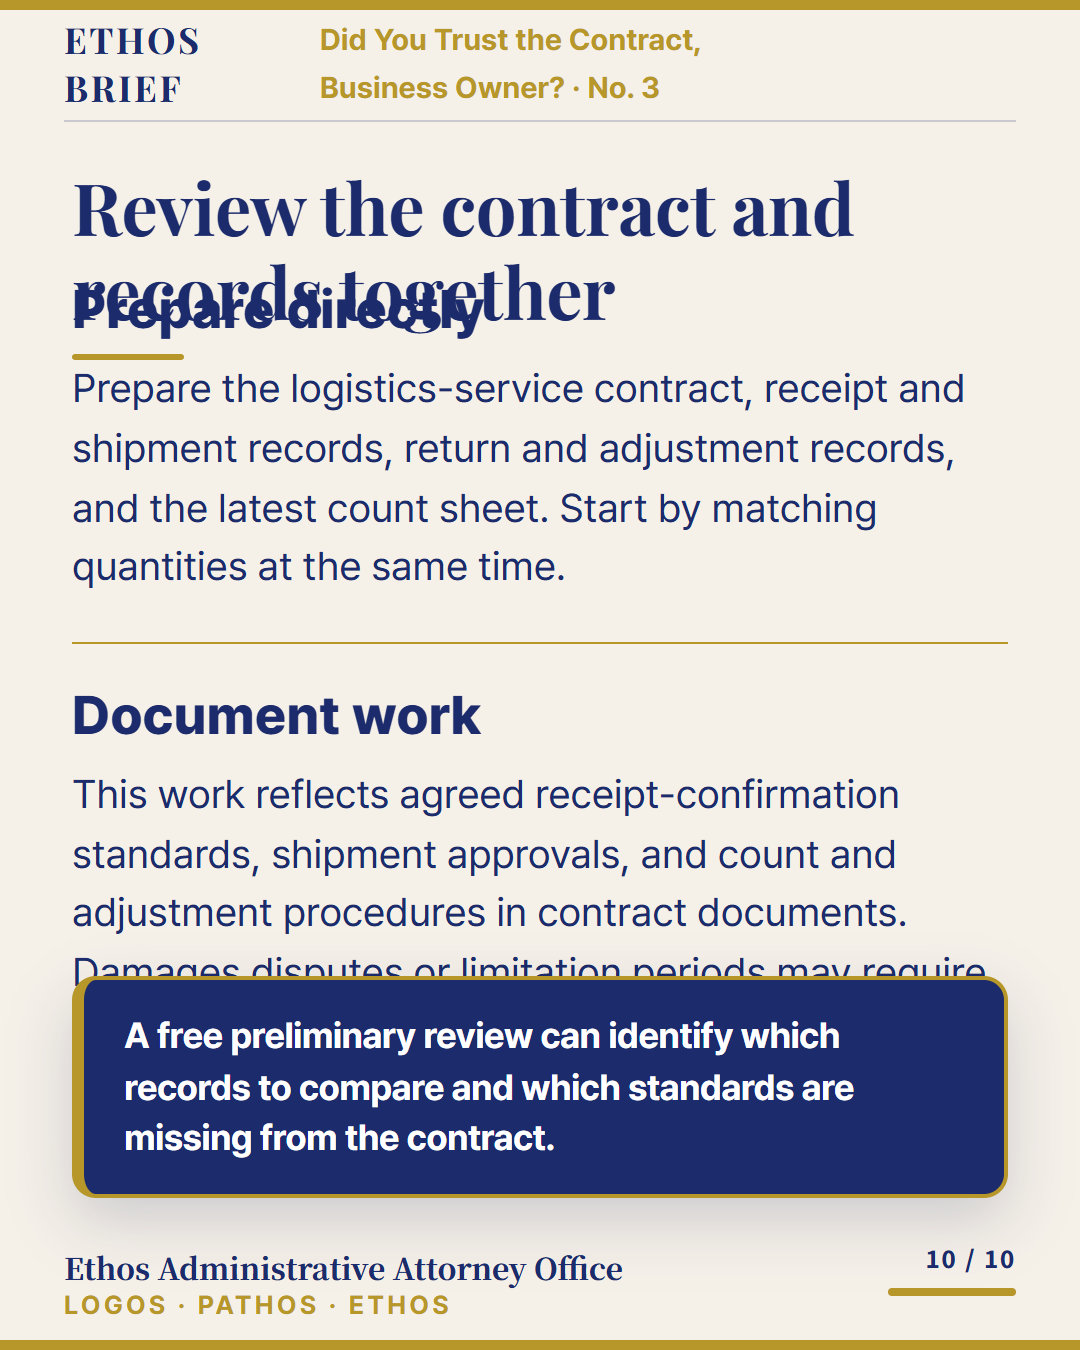
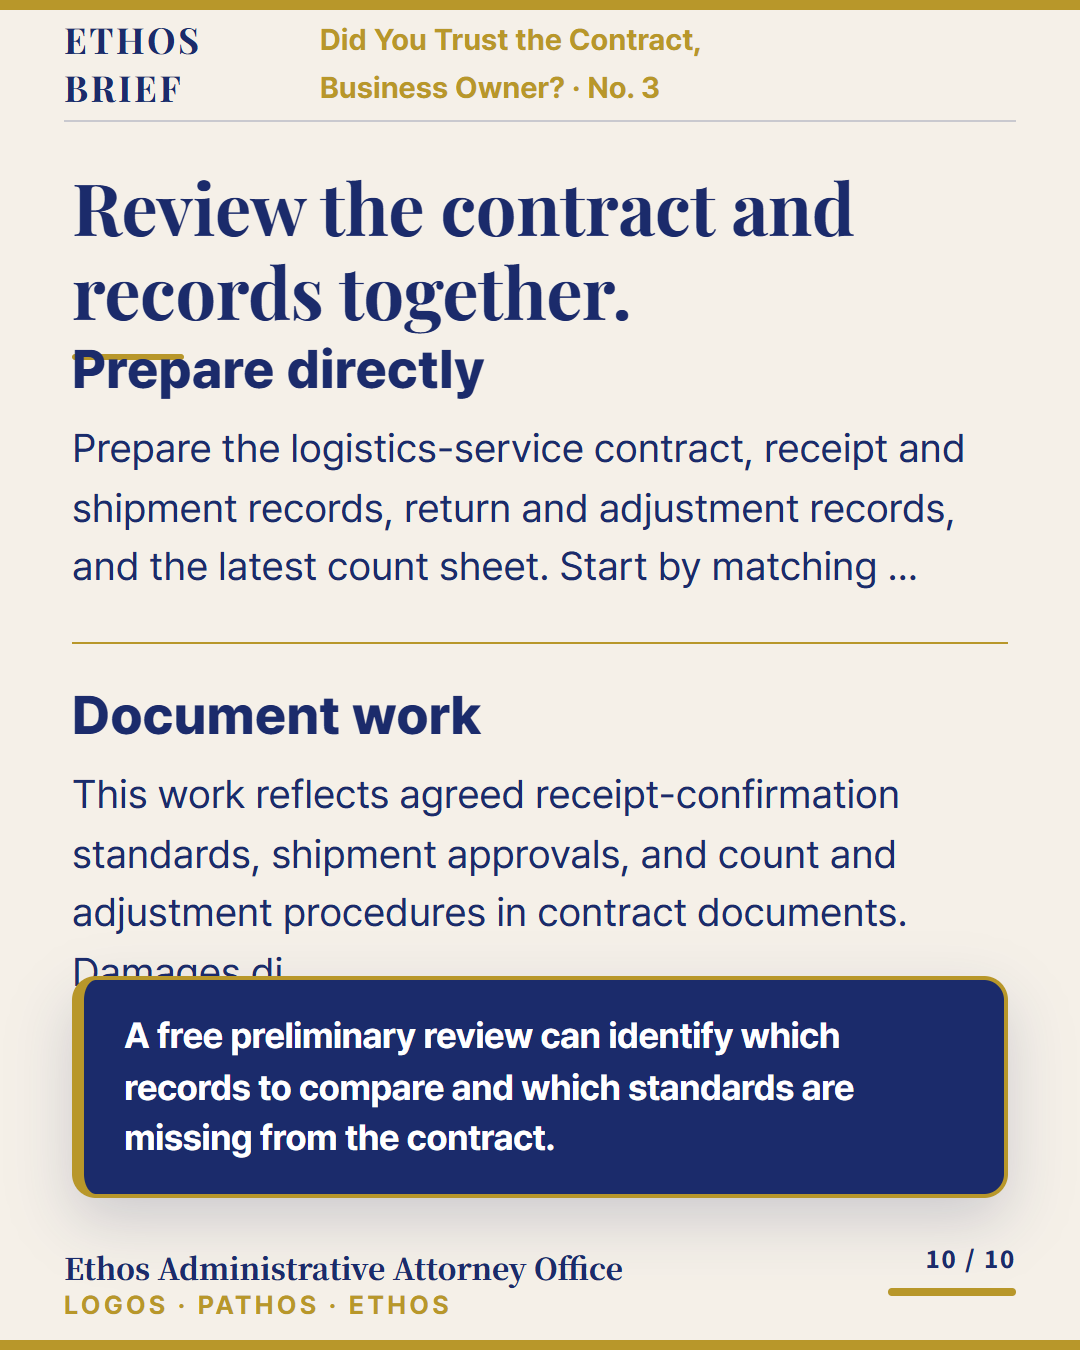
fix(cards): shorten English copy for mobile fit

diff --git a/content/CONTRACT-WAREHOUSE-INVENTORY-03-KO-CARDS/en/card_09.html b/content/CONTRACT-WAREHOUSE-INVENTORY-03-KO-CARDS/en/card_09.html
@@ -13,7 +13,7 @@
   <div class="hdr"><span class="wm" data-frame="wordmark">ETHOS BRIEF</span><span class="sec" data-frame="section">Did You Trust the Contract, Business Owner? · No. 3</span></div>
   <div class="hl" data-frame="line"></div>
   <div class="body">
-    <div class="z-title" data-zone="title"><h2 class="h2" data-role="headline">Separate the storage and transport stages</h2></div>
+    <div class="z-title" data-zone="title"><h2 class="h2" data-role="headline">Separate storage from transport.</h2></div>
 <div class="z-main" data-zone="main"><div class="transport-case" data-focal="transport"><div class="transport-symbol"><svg
   xmlns="http://www.w3.org/2000/svg"
   width="24"
@@ -31,7 +31,7 @@
   <circle cx="17" cy="18" r="2" />
   <circle cx="7" cy="18" r="2" />
 </svg>
-</div><div class="judgment-source" data-role="note">Supreme Court, July 10, 2019, 2019Da213009</div><div class="judgment-body">The Court treated multimodal transport as the core element of a comprehensive logistics operation contract that included storage, logistics-information use and port handling.</div><div class="judgment-boundary">This ruling concerned the character of a specific contract and cargo loss. It did not classify every fulfillment contract as a transport contract.</div></div></div>
+</div><div class="judgment-source" data-role="note">Supreme Court, July 10, 2019, 2019Da213009</div><div class="judgment-body">A specific logistics contract treated multimodal transport as central.</div><div class="judgment-boundary">It did not classify every fulfillment contract as transport.</div></div></div>
 <div class="z-take" data-zone="take"><div class="close" data-role="takeaway">Separate the period before and after courier handoff, and review handoff proof and transport records.</div></div>
   </div>
   <div class="ftr"><div class="org" data-frame="org">Ethos Administrative Attorney Office</div><div class="tagl" data-frame="tagline">LOGOS · PATHOS · ETHOS</div><div class="pg" data-frame="page" aria-hidden="true" data-progress="09 / 10"></div></div>

diff --git a/content/CONTRACT-WAREHOUSE-INVENTORY-03-KO-CARDS/en/card_10.html b/content/CONTRACT-WAREHOUSE-INVENTORY-03-KO-CARDS/en/card_10.html
@@ -13,8 +13,8 @@
   <div class="hdr"><span class="wm" data-frame="wordmark">ETHOS BRIEF</span><span class="sec" data-frame="section">Did You Trust the Contract, Business Owner? · No. 3</span></div>
   <div class="hl" data-frame="line"></div>
   <div class="body">
-    <div class="z-title" data-zone="title"><h2 class="h2" data-role="headline">Review the contract and records together</h2></div>
-<div class="z-main" data-zone="main"><div class="handoff" data-focal><section><h3>Prepare directly</h3><p>Prepare the logistics-service contract, receipt and shipment records, return and adjustment records, and the latest count sheet. Start by matching quantities at the same time.</p></section><section><h3>Document work</h3><p>This work reflects agreed receipt-confirmation standards, shipment approvals, and count and adjustment procedures in contract documents. Damages disputes or limitation periods may require attorney review.</p></section></div></div>
+    <div class="z-title" data-zone="title"><h2 class="h2" data-role="headline">Review the contract and records together.</h2></div>
+<div class="z-main" data-zone="main"><div class="handoff" data-focal><section><h3>Prepare directly</h3><p>Prepare the logistics-service contract, receipt and shipment records, return and adjustment records, and the latest count sheet. Start by matching …</p></section><section><h3>Document work</h3><p>This work reflects agreed receipt-confirmation standards, shipment approvals, and count and adjustment procedures in contract documents. Damages di…</p></section></div></div>
 <div class="z-take" data-zone="take"><div class="take" data-role="takeaway">A free preliminary review can identify which records to compare and which standards are missing from the contract.</div></div>
   </div>
   <div class="ftr"><div class="org" data-frame="org">Ethos Administrative Attorney Office</div><div class="tagl" data-frame="tagline">LOGOS · PATHOS · ETHOS</div><div class="pg" data-frame="page" aria-hidden="true" data-progress="10 / 10"></div></div>

diff --git a/content/CONTRACT-WAREHOUSE-INVENTORY-03-KO-CARDS/en/card_08.html b/content/CONTRACT-WAREHOUSE-INVENTORY-03-KO-CARDS/en/card_08.html
@@ -13,7 +13,7 @@
   <div class="hdr"><span class="wm" data-frame="wordmark">ETHOS BRIEF</span><span class="sec" data-frame="section">Did You Trust the Contract, Business Owner? · No. 3</span></div>
   <div class="hl" data-frame="line"></div>
   <div class="body">
-    <div class="z-title" data-zone="title"><h2 class="h2" data-role="headline">Unauthorized shipment can also count as “loss”</h2></div>
+    <div class="z-title" data-zone="title"><h2 class="h2" data-role="headline">Unauthorized shipment can count as “loss”.</h2></div>
 <div class="z-main" data-zone="main"><div class="judgment judgment-8" data-focal="judgment"><div class="case-symbol"><svg
   xmlns="http://www.w3.org/2000/svg"
   width="24"
@@ -31,7 +31,7 @@
   <path d="m8 8 6-6" />
   <path d="m8.5 7.5 8 8" />
 </svg>
-</div><div class="judgment-source" data-role="note">Supreme Court, Dec. 22, 1981, 80Da1609</div><div class="judgment-body">The case concerned silk held as collateral. The Court held that “loss” under Article 166 of the Commercial Act includes unauthorized shipment that makes it impossible to return the goods to the person who entrusted them.</div><div class="judgment-boundary">Modern fulfillment contracts have a different structure. The ruling can guide review of shipment authority and approval records.</div></div></div>
+</div><div class="judgment-source" data-role="note">Supreme Court, Dec. 22, 1981, 80Da1609</div><div class="judgment-body">Article 166 includes unauthorized shipment that prevents return.</div><div class="judgment-boundary">Review shipment authority and approvals.</div></div></div>
 <div class="z-take" data-zone="take"><div class="close" data-role="takeaway">Check who requested the shipment and what approval preceded it.</div></div>
   </div>
   <div class="ftr"><div class="org" data-frame="org">Ethos Administrative Attorney Office</div><div class="tagl" data-frame="tagline">LOGOS · PATHOS · ETHOS</div><div class="pg" data-frame="page" aria-hidden="true" data-progress="08 / 10"></div></div>

diff --git a/content/CONTRACT-WAREHOUSE-INVENTORY-03-KO-CARDS/en/card_05.html b/content/CONTRACT-WAREHOUSE-INVENTORY-03-KO-CARDS/en/card_05.html
@@ -14,7 +14,7 @@
   <div class="hl" data-frame="line"></div>
   <div class="body">
     <div class="z-title" data-zone="title"><h2 class="h2" data-role="headline">“Mutual discussion” alone leaves no record.</h2></div>
-<div class="z-main" data-zone="main"><div class="contract-edit" data-focal><section><h3>Before</h3><p>“The custodian shall store the entrusted goods with due care and handle any inventory difference through discussion between the parties.”</p></section><section><h3>Revision direction</h3><p>Record expected, inspected and confirmed receipt quantities separately, and ship through the agreed approval route. Keep the reason, time and person responsible for cancellations, returns, defective-goods movement and inventory adjustments.</p></section></div></div>
+<div class="z-main" data-zone="main"><div class="contract-edit" data-focal><section><h3>Before</h3><p>“The custodian shall store the entrusted goods with due care and handle any inventory difference through discussion between the parties.”</p></section><section><h3>Revision direction</h3><p>Record expected, inspected and confirmed receipt quantities separately, and ship through the agreed approval route. Keep the reason, time and perso…</p></section></div></div>
 <div class="z-take" data-zone="take"><div class="close" data-role="takeaway">Write the parties’ agreed work process into the contract.</div></div>
   </div>
   <div class="ftr"><div class="org" data-frame="org">Ethos Administrative Attorney Office</div><div class="tagl" data-frame="tagline">LOGOS · PATHOS · ETHOS</div><div class="pg" data-frame="page" aria-hidden="true" data-progress="05 / 10"></div></div>

diff --git a/content/CONTRACT-WAREHOUSE-INVENTORY-03-KO-CARDS/en/card_01.html b/content/CONTRACT-WAREHOUSE-INVENTORY-03-KO-CARDS/en/card_01.html
@@ -13,7 +13,7 @@
   <div class="hdr"><span class="wm" data-frame="wordmark">ETHOS BRIEF</span><span class="sec" data-frame="section">Did You Trust the Contract, Business Owner? · No. 3</span></div>
   <div class="hl" data-frame="line"></div>
   <div class="body">
-    <div class="z-title" data-zone="title"><h2 class="h2" data-role="headline">Who is responsible when goods stored in a warehouse do not match?</h2></div>
+    <div class="z-title" data-zone="title"><h2 class="h2" data-role="headline">Warehouse stock differs.<br>Who is responsible?</h2></div>
 <div class="z-main" data-zone="main"><div class="warehouse-scene" data-focal><div class="scene-warehouse"><svg
   xmlns="http://www.w3.org/2000/svg"
   width="24"
@@ -45,7 +45,7 @@
   <path d="M16 4h2a2 2 0 0 1 2 2v14a2 2 0 0 1-2 2H6a2 2 0 0 1-2-2V6a2 2 0 0 1 2-2h2" />
   <path d="m9 14 2 2 4-4" />
 </svg>
-</div></div><div class="cover-copy"><p>When quantities differ, separate the records first.</p><p class="promise" data-role="note">A way to find the cause of the discrepancy</p></div></div>
+</div></div><div class="cover-copy"><p>When quantities differ, separate the records first.</p><p class="promise" data-role="note">Find where the gap began</p></div></div>
 <div class="z-take" data-zone="take"><div class="take" data-role="takeaway">A ledger difference does not by itself prove loss or liability.</div></div>
   </div>
   <div class="ftr"><div class="org" data-frame="org">Ethos Administrative Attorney Office</div><div class="tagl" data-frame="tagline">LOGOS · PATHOS · ETHOS</div><div class="pg" data-frame="page" aria-hidden="true" data-progress="01 / 10"></div></div>

diff --git a/content/CONTRACT-WAREHOUSE-INVENTORY-03-KO-CARDS/en/card_02.html b/content/CONTRACT-WAREHOUSE-INVENTORY-03-KO-CARDS/en/card_02.html
@@ -13,7 +13,7 @@
   <div class="hdr"><span class="wm" data-frame="wordmark">ETHOS BRIEF</span><span class="sec" data-frame="section">Did You Trust the Contract, Business Owner? · No. 3</span></div>
   <div class="hl" data-frame="line"></div>
   <div class="body">
-    <div class="z-title" data-zone="title"><h2 class="h2" data-role="headline">What if the three numbers do not match?</h2></div>
+    <div class="z-title" data-zone="title"><h2 class="h2" data-role="headline">What if three counts differ?</h2></div>
 <div class="z-main" data-zone="main"><div class="inventory-bars" data-focal><div class="inventory-row"><div class="inventory-label"><b>Company ledger</b><strong>1,200 units</strong></div><div class="track"><div class="fill" style="width:100.0000%"></div></div><p>Quantity reflecting purchases and sales</p></div><div class="inventory-row"><div class="inventory-label"><b>Warehouse ledger</b><strong>1,150 units</strong></div><div class="track"><div class="fill" style="width:95.8333%"></div></div><p>Quantity managed for warehouse receipts and shipments</p></div><div class="inventory-row"><div class="inventory-label"><b>Physical count</b><strong>1,130 units</strong></div><div class="track"><div class="fill" style="width:94.1667%"></div></div><p>Quantity counted in the warehouse</p></div></div></div>
 <div class="z-take" data-zone="take"><div class="close" data-role="takeaway">Check the 50-unit and 20-unit differences separately.</div></div>
   </div>

diff --git a/content/CONTRACT-WAREHOUSE-INVENTORY-03-KO-CARDS/en/card_07.html b/content/CONTRACT-WAREHOUSE-INVENTORY-03-KO-CARDS/en/card_07.html
@@ -13,7 +13,7 @@
   <div class="hdr"><span class="wm" data-frame="wordmark">ETHOS BRIEF</span><span class="sec" data-frame="section">Did You Trust the Contract, Business Owner? · No. 3</span></div>
   <div class="hl" data-frame="line"></div>
   <div class="body">
-    <div class="z-title" data-zone="title"><h2 class="h2" data-role="headline">Liability depends on goods actually missing</h2></div>
+    <div class="z-title" data-zone="title"><h2 class="h2" data-role="headline">Liability depends on the goods and contract.</h2></div>
 <div class="z-main" data-zone="main"><div class="liability" data-focal><section><h3>Applicable relationship</h3><p>First determine whether this is a warehouse-business relationship involving storage for another person.</p></section><section><h3>Incident during storage</h3><p>The entrusted goods must be found lost or damaged.</p></section><section><h3>Proof of due care</h3><p>The warehouse operator cannot avoid liability unless the operator or its employee proves that due care was exercised in storage.</p></section></div></div>
 <div class="z-take" data-zone="take"><div class="take" data-role="takeaway">First confirm the entrusted quantity, acceptance and shipment records, and goods that cannot be returned.</div></div>
   </div>

diff --git a/content/CONTRACT-WAREHOUSE-INVENTORY-03-KO-CARDS/en/card_04.html b/content/CONTRACT-WAREHOUSE-INVENTORY-03-KO-CARDS/en/card_04.html
@@ -13,7 +13,7 @@
   <div class="hdr"><span class="wm" data-frame="wordmark">ETHOS BRIEF</span><span class="sec" data-frame="section">Did You Trust the Contract, Business Owner? · No. 3</span></div>
   <div class="hl" data-frame="line"></div>
   <div class="body">
-    <div class="z-title" data-zone="title"><h2 class="h2" data-role="headline">Before changing numbers, reconcile the records.</h2></div>
+    <div class="z-title" data-zone="title"><h2 class="h2" data-role="headline">Reconcile records before changing numbers.</h2></div>
 <div class="z-main" data-zone="main"><div class="records" data-focal="records"><div class="record-symbol"><svg
   xmlns="http://www.w3.org/2000/svg"
   width="24"

diff --git a/content/CONTRACT-WAREHOUSE-INVENTORY-03-KO-CARDS/out/en/qa-report.md b/content/CONTRACT-WAREHOUSE-INVENTORY-03-KO-CARDS/out/en/qa-report.md
@@ -4,19 +4,18 @@
 
 | 카드 | 유형 | 글자수 | 단어수 | 본문 채움 | 하단 여백 | 결과 |
 |---|---|---:|---:|---:|---:|---|
-| card_01.html | cover | 186 | 39 | 1.23 | 26 | FAIL |
-| card_02.html | checklist | 261 | 44 | 0.87 | 26 | FAIL |
+| card_01.html | cover | 157 | 28 | 0.99 | 26 | FAIL |
+| card_02.html | checklist | 253 | 41 | 0.79 | 26 | FAIL |
 | card_03.html | comparison | 344 | 66 | 0.91 | 26 | FAIL |
-| card_04.html | table | 387 | 66 | 1.15 | 26 | FAIL |
-| card_05.html | comparison | 439 | 68 | 1.11 | 26 | FAIL |
+| card_04.html | table | 383 | 65 | 1.15 | 26 | FAIL |
+| card_05.html | comparison | 356 | 59 | 0.95 | 26 | FAIL |
 | card_06.html | concept | 307 | 59 | 0.81 | 26 | FAIL |
-| card_07.html | concept | 428 | 72 | 1.26 | 26 | FAIL |
-| card_08.html | quote | 423 | 77 | 1.04 | 26 | FAIL |
-| card_09.html | quote | 436 | 73 | 0.99 | 26 | FAIL |
-| card_10.html | cta | 490 | 78 | 1.28 | 26 | FAIL |
+| card_07.html | concept | 428 | 73 | 1.26 | 26 | FAIL |
+| card_08.html | quote | 217 | 35 | 0.5 | 26 | FAIL |
+| card_09.html | quote | 267 | 43 | 0.73 | 26 | FAIL |
+| card_10.html | cta | 419 | 67 | 1.08 | 26 | FAIL |
 
 ### card_01.html
-- zone-overflow:main
 - frame-drift wordmark.top: 8.0 != 20
 - frame-drift section.top: 8.0 != 20
 
@@ -38,18 +37,15 @@
 - frame-drift section.top: 8.0 != 20
 
 ### card_04.html 권고
-- chars 387 > 권고 340 (문장 압축 또는 카드 분리 검토)
-- words 66 > 권고 60 (영문 호흡과 모바일 가독성 확인)
+- chars 383 > 권고 340 (문장 압축 또는 카드 분리 검토)
+- words 65 > 권고 60 (영문 호흡과 모바일 가독성 확인)
 
 ### card_05.html
-- zone-overflow:main
 - frame-drift wordmark.top: 8.0 != 20
 - frame-drift section.top: 8.0 != 20
 
 ### card_05.html 권고
-- chars 439 > 강한 경고 340 (문장 압축 또는 카드 분리 검토)
-- words 68 > 권고 60 (영문 호흡과 모바일 가독성 확인)
-- paragraph-lines 6 > 권장 4: 'Record expecte'
+- chars 356 > 권고 340 (문장 압축 또는 카드 분리 검토)
 
 ### card_06.html
 - frame-drift wordmark.top: 8.0 != 20
@@ -62,25 +58,15 @@
 
 ### card_07.html 권고
 - chars 428 > 강한 경고 340 (문장 압축 또는 카드 분리 검토)
-- words 72 > 권고 60 (영문 호흡과 모바일 가독성 확인)
+- words 73 > 강한 경고 60 (영문 호흡과 모바일 가독성 확인)
 
 ### card_08.html
-- zone-overflow:main
 - frame-drift wordmark.top: 8.0 != 20
 - frame-drift section.top: 8.0 != 20
-
-### card_08.html 권고
-- chars 423 > 강한 경고 340 (문장 압축 또는 카드 분리 검토)
-- words 77 > 강한 경고 60 (영문 호흡과 모바일 가독성 확인)
-- paragraph-lines 6 > 권장 4: 'The case conce'
 
 ### card_09.html
 - frame-drift wordmark.top: 8.0 != 20
 - frame-drift section.top: 8.0 != 20
-
-### card_09.html 권고
-- chars 436 > 강한 경고 340 (문장 압축 또는 카드 분리 검토)
-- words 73 > 강한 경고 60 (영문 호흡과 모바일 가독성 확인)
 
 ### card_10.html
 - zone-overflow:main
@@ -88,9 +74,8 @@
 - frame-drift section.top: 8.0 != 20
 
 ### card_10.html 권고
-- chars 490 > 강한 경고 340 (문장 압축 또는 카드 분리 검토)
-- words 78 > 강한 경고 60 (영문 호흡과 모바일 가독성 확인)
-- paragraph-lines 5 > 권장 4: 'This work refl'
+- chars 419 > 권고 340 (문장 압축 또는 카드 분리 검토)
+- words 67 > 권고 60 (영문 호흡과 모바일 가독성 확인)
 
 ## 사람이 확인할 것 (자동화 불가)
 - [ ] 법령·판례 해석이 원문과 일치하는가 (변호사·행정사 최종 확인)
